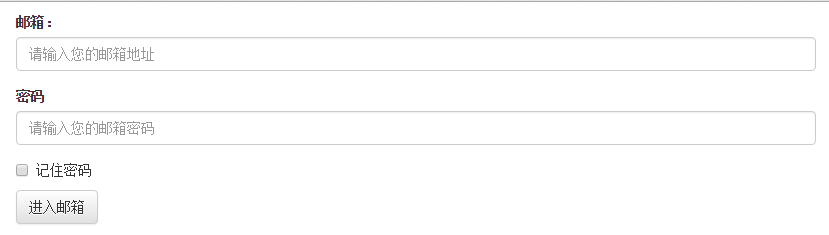
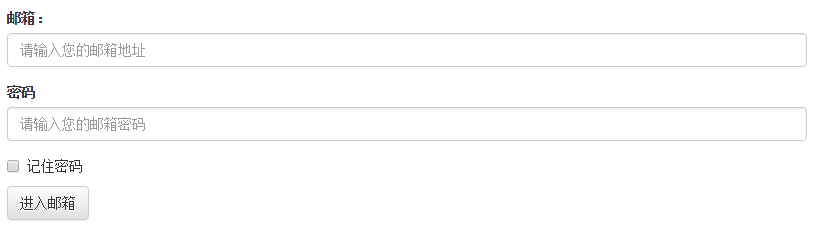
upd img

Changed region(s): [[0.0, 0.0, 1.0, 0.3277], [0.0, 0.3574, 1.0, 0.6255], [0.0, 0.6851, 0.1224, 0.9532]]

diff --git a/mds/bootstrap/temp.html b/mds/bootstrap/temp.html
@@ -12,33 +12,21 @@
 </head>
 <body>
 <div style='width:800px;margin-left: 20px; margin-top:10px;'>
-<form class="form-horizontal" role="form">
+<form role="form">
 	<div class="form-group">
-		<label for="inputEmail3" class="col-sm-2 control-label">邮箱</label>
-		<div class="col-sm-10">
-			<input type="email" class="form-control" id="inputEmail3" placeholder="请输入您的邮箱地址">
-		</div> 
+		<label for="exampleInputEmail1">邮箱：</label>
+		<input type="email" class="form-control" id="exampleInputEmail1" placeholder="请输入您的邮箱地址">
 	</div>
 	<div class="form-group">
-		<label for="inputPassword3" class="col-sm-2 control-label">密码</label>
-		<div class="col-sm-10">
-			<input type="password" class="form-control" id="inputPassword3" placeholder="请输入您的邮箱密码">
-		</div>
+		<label for="exampleInputPassword1">密码</label>
+		<input type="password" class="form-control" id="exampleInputPassword1" placeholder="请输入您的邮箱密码">
 	</div>
-	<div class="form-group">
-		<div class="col-sm-offset-2 col-sm-10">
-			<div class="checkbox">
-				<label>
-					<input type="checkbox"> 记住密码
-				</label>
-			</div>
-		</div>
+	<div class="checkbox">
+		<label>
+			<input type="checkbox"> 记住密码
+		</label>
 	</div>
-	<div class="form-group">
-		<div class="col-sm-offset-2 col-sm-10">
-			<button type="submit" class="btn btn-default">进入邮箱</button>
-		</div>
-	</div>
+	<button type="submit" class="btn btn-default">进入邮箱</button>
 </form>
 </div>
 <!-- jQuery文件。务必在bootstrap.min.js 之前引入 -->
